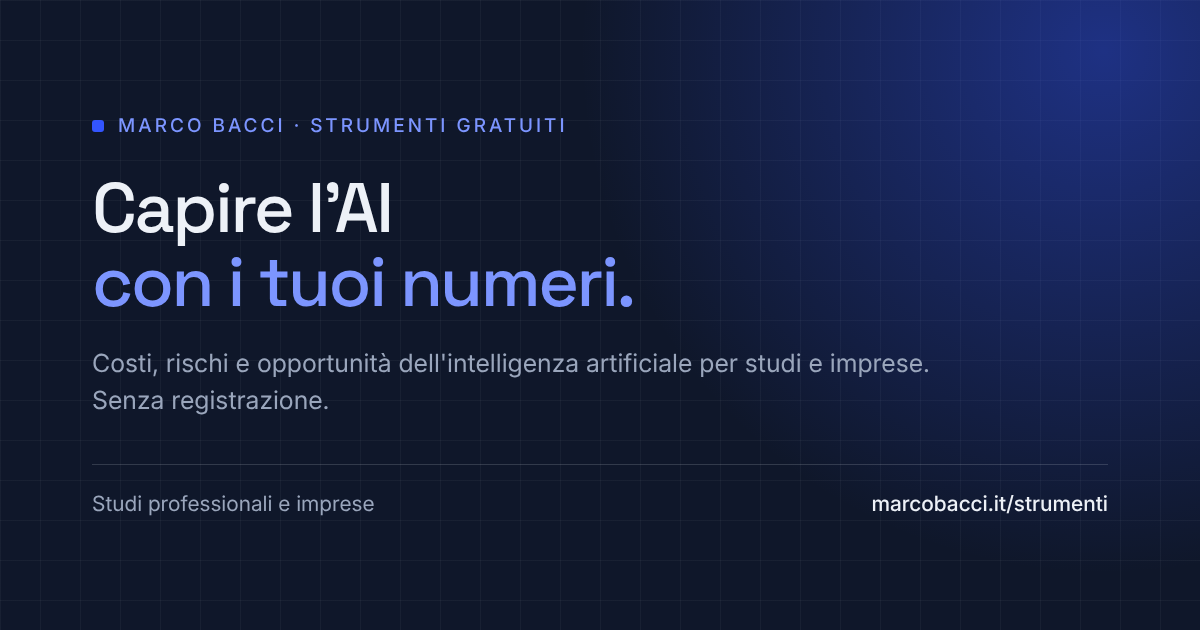
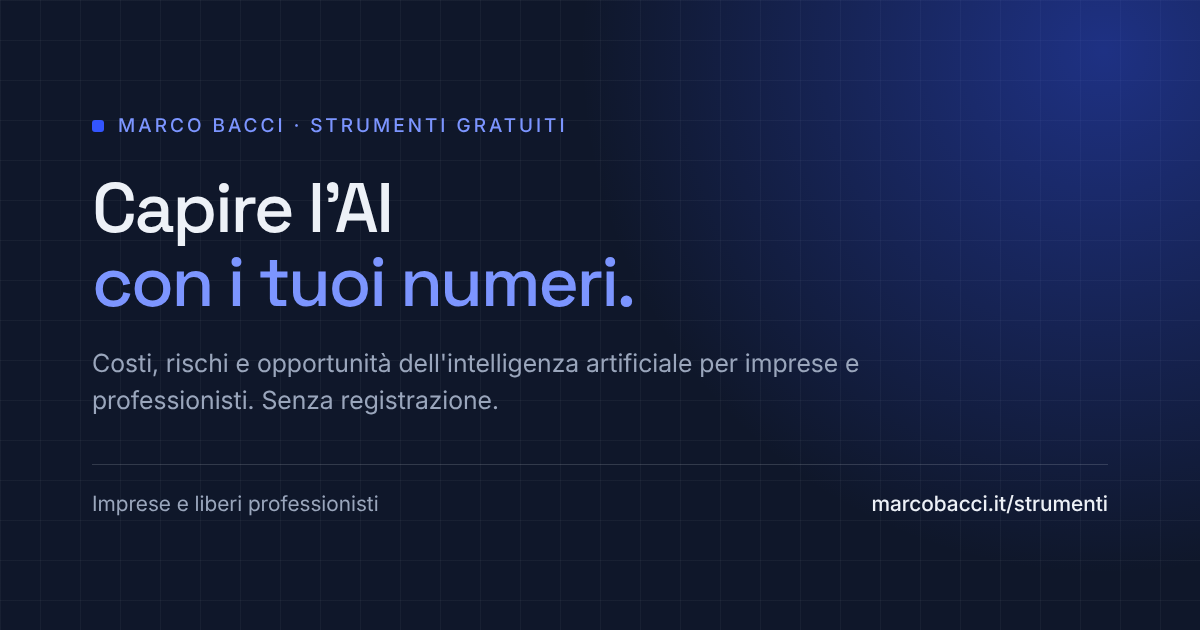
Pagina Esempi per mestiere e target 'imprese e liberi professionisti'
- nuova pagina /esempi/ (dati in _data/esempi.yml): hotel, edili e impiantisti, officine e artigiani, studi tecnici
- blocco 'Esempi per il tuo lavoro' in home sotto i servizi, link anche da Servizi
- target aggiornato in home, servizi, chi sono, blog, strumenti, newsletter, descrizioni SEO
- anteprime dei link rigenerate

Claude-Session: https://claude.ai/code/session_01NUs1ymJygNkjF9CL93kb1N

Changed region(s): [[0.0617, 0.6032, 0.4008, 0.6635], [0.6167, 0.5429, 0.7708, 0.6032], [0.0617, 0.7841, 0.3083, 0.8143]]

diff --git a/servizi.html b/servizi.html
@@ -3,7 +3,7 @@ layout: default
 title: "Servizi"
 nav: servizi
 permalink: /servizi/
-description: "Formazione, affiancamento operativo e progetti AI su misura per studi professionali e imprese. Parto dal lavoro reale e costruisco l'intervento intorno alle tue esigenze."
+description: "Formazione, affiancamento operativo e progetti AI su misura per imprese e liberi professionisti. Parto dal lavoro reale e costruisco l'intervento intorno alle tue esigenze."
 ---
 
 <section class="hero">
@@ -23,22 +23,24 @@ description: "Formazione, affiancamento operativo e progetti AI su misura per st
   <div class="wrap split">
     <div>
       <p class="eyebrow">Per chi lavoro</p>
-      <h2>Studi e imprese, dove il tempo non avanza</h2>
+      <h2>Imprese e professionisti, dove il tempo non avanza</h2>
     </div>
 
     <div>
       <p class="lead" style="max-width:56ch;margin-bottom:2rem">
-        Commercialisti, avvocati, consulenti del lavoro, studi tecnici e imprese
-        di ogni settore. Posti dove non c'è un ufficio informatico né un ufficio formazione,
+        Hotel e strutture ricettive, imprese edili e impiantisti, officine, artigiani
+        e studi tecnici. Posti dove non c'è un ufficio informatico né un ufficio formazione,
         e ogni ora sottratta alle pratiche deve tradursi in un valore concreto.
       </p>
 
       <ul class="bars">
-        <li>L'AI è già nel tuo studio. Trasformala in un vantaggio concreto</li>
+        <li>L'AI è già nel tuo lavoro. Trasformala in un vantaggio concreto</li>
         <li class="acceso">Nessuno sa dirti con certezza cosa si può caricare e cosa no</li>
         <li>I corsi e gli strumenti che hai visto parlavano di tutto, tranne che del tuo lavoro</li>
         <li>Ti serve un riferimento anche dopo, senza restare legato a un contratto</li>
       </ul>
+
+      <p style="margin-top:2rem"><a class="link-arrow" href="{{ '/esempi/' | relative_url }}">Vedi gli esempi per il tuo mestiere</a></p>
     </div>
   </div>
 </section>
@@ -60,7 +62,7 @@ description: "Formazione, affiancamento operativo e progetti AI su misura per st
 
       <h3 style="font-size:1.1rem;margin-bottom:0.9rem">Per chi</h3>
       <ul class="ticks" style="margin-bottom:2rem">
-        <li>Studi professionali e imprese che vogliono introdurre l'AI nel lavoro quotidiano</li>
+        <li>Imprese e liberi professionisti che vogliono introdurre l'AI nel lavoro quotidiano</li>
         <li>Team che hanno già iniziato a usarla ma senza un metodo condiviso</li>
         <li>Associazioni, reti di imprese, convegni e giornate di settore</li>
       </ul>

diff --git a/esempi.html b/esempi.html
@@ -1,0 +1,67 @@
+---
+layout: default
+title: "Esempi per il tuo lavoro"
+nav: esempi
+permalink: /esempi/
+description: "Esempi concreti di cosa può fare l'intelligenza artificiale per hotel, imprese edili e impiantisti, officine e artigiani, studi tecnici. Mestiere per mestiere."
+---
+
+<section class="hero">
+  <div class="wrap hero-inner">
+    <p class="eyebrow" style="color:var(--brass)">Esempi</p>
+    <h1>Cosa posso fare per te,<br><em>mestiere per mestiere</em></h1>
+    <p class="lead">
+      Qualche esempio concreto di come l'AI entra nel lavoro di tutti i giorni.
+      Ognuno parte da una cosa che fai già e la rende più veloce.
+      Prima che qualcosa arrivi a un cliente lo controlla sempre una persona.
+    </p>
+
+    <nav class="esempi-salti" aria-label="Vai al tuo mestiere">
+      {% for m in site.data.esempi %}
+      <a href="#{{ m.id }}">{{ m.nome }}</a>
+      {% endfor %}
+    </nav>
+  </div>
+</section>
+
+{% for m in site.data.esempi %}
+<section class="section{% cycle ' section-warm', '' %} esempi-mestiere" id="{{ m.id }}">
+  <div class="wrap split">
+    <div>
+      <p class="eyebrow">{{ m.chi }}</p>
+      <h2>{{ m.nome }}</h2>
+    </div>
+    <div>
+      <ul class="ticks esempi-lista">
+        {% for e in m.esempi %}
+        <li>{{ e }}</li>
+        {% endfor %}
+      </ul>
+    </div>
+  </div>
+</section>
+{% endfor %}
+
+<section class="section-dark section-tight">
+  <div class="wrap wrap-narrow">
+    <p class="eyebrow">E poi?</p>
+    <h2 style="color:var(--ivory)">Ogni esempio può diventare un corso, un assistente o un'automazione</h2>
+    <p class="lead" style="margin-bottom:1.5rem">
+      Posso insegnare al tuo team a farlo da solo, preparare un assistente AI
+      già impostato sul tuo lavoro oppure costruire un'automazione che lavora al posto tuo.
+      Accessi, configurazioni e istruzioni restano a te.
+    </p>
+    <a class="link-arrow" href="{{ '/servizi/' | relative_url }}">Vedi i servizi</a>
+  </div>
+</section>
+
+<section class="section section-warm">
+  <div class="wrap wrap-narrow" style="text-align:center">
+    <h2>Il tuo mestiere non c'è?</h2>
+    <p class="lead" style="margin:0 auto 2rem">
+      Questi sono solo esempi. In una call gratuita di 20 minuti mi racconti come lavori
+      e ti dico dove vedo un uso concreto dell'AI, e dove invece non la userei.
+    </p>
+    <a class="btn btn-primary" href="{{ '/prenota/' | relative_url }}">Scegli un orario</a>
+  </div>
+</section>

diff --git a/index.html b/index.html
@@ -1,7 +1,7 @@
 ---
 layout: default
 nav: home
-description: "Formazione, consulenza e affiancamento sull'intelligenza artificiale per studi professionali e imprese, costruiti sul lavoro che fai ogni giorno. Roma e tutta Italia."
+description: "Formazione, consulenza e affiancamento sull'intelligenza artificiale per imprese e liberi professionisti, costruiti sul lavoro che fai ogni giorno. Roma e tutta Italia."
 ---
 
 <!-- ============ HERO ============ -->
@@ -10,8 +10,8 @@ description: "Formazione, consulenza e affiancamento sull'intelligenza artificia
     <h1>Porto l'intelligenza artificiale<br>nel tuo lavoro<br><em>di tutti i giorni.</em></h1>
 
     <p class="lead">
-      Formazione, consulenza e affiancamento per studi professionali e imprese:
-      commercialisti, avvocati, consulenti del lavoro, studi tecnici e aziende di ogni settore.
+      Formazione, consulenza e affiancamento per imprese e liberi professionisti:
+      hotel e strutture ricettive, imprese edili e impiantisti, officine, artigiani e studi tecnici.
       Parto da come lavori oggi, individuo dove l'AI può essere utile
       e ti aiuto a portarla nel lavoro di tutti i giorni.
       Senza corsi generici e senza legarti a me.
@@ -36,7 +36,7 @@ description: "Formazione, consulenza e affiancamento sull'intelligenza artificia
 
     <p class="hero-meta">
       <span>Formazione · Affiancamento · Progetti AI</span>
-      <span>Studi professionali e imprese</span>
+      <span>Imprese e liberi professionisti</span>
       <span>Roma e tutta Italia</span>
     </p>
   </div>
@@ -74,6 +74,26 @@ description: "Formazione, consulenza e affiancamento sull'intelligenza artificia
       </a>
 
     </div>
+
+    <!-- Esempi per mestiere (dati in _data/esempi.yml) -->
+    {% if site.data.esempi and site.data.esempi.size > 0 %}
+    <div class="home-esempi">
+      <div class="home-esempi-head">
+        <h3>Esempi per il tuo lavoro</h3>
+        <p>Cosa vuol dire in pratica, mestiere per mestiere.</p>
+      </div>
+      <div class="grid">
+        {% for m in site.data.esempi %}
+        <a class="card" href="{{ '/esempi/' | relative_url }}#{{ m.id }}">
+          <h4>{{ m.nome }}</h4>
+          <p class="card-chi">{{ m.chi }}</p>
+          <p class="card-esempio">{{ m.esempi.first }}</p>
+          <span class="link-arrow">Vedi gli esempi</span>
+        </a>
+        {% endfor %}
+      </div>
+    </div>
+    {% endif %}
   </div>
 </section>
 

diff --git a/assets/css/style.css b/assets/css/style.css
@@ -2203,3 +2203,52 @@ a.cliente-logo:hover { background: var(--accent-soft); }
 }
 
 .home-strumenti-more { margin: 1.5rem 0 0; }
+
+/* --------------------------------------------------------------------------
+   32. Esempi per mestiere (pagina /esempi/ e blocco in home, dati in _data/esempi.yml)
+   -------------------------------------------------------------------------- */
+
+.esempi-salti {
+  display: flex;
+  flex-wrap: wrap;
+  gap: 0.6rem;
+  margin-top: 2rem;
+}
+
+.esempi-salti a {
+  display: inline-block;
+  padding: 0.5rem 0.95rem;
+  border: 1px solid var(--line);
+  border-radius: 999px;
+  background: var(--surface);
+  color: var(--text);
+  font-size: 0.92rem;
+  text-decoration: none;
+  transition: border-color var(--dur) var(--ease), color var(--dur) var(--ease);
+}
+
+.esempi-salti a:hover { border-color: var(--accent); color: var(--accent); }
+
+.esempi-mestiere { scroll-margin-top: 5rem; }
+
+.esempi-lista li { font-size: 1.05rem; }
+
+/* Home: quattro schede mestiere sotto i servizi */
+.home-esempi { margin-top: clamp(3rem, 6vw, 4.5rem); }
+.home-esempi-head { margin-bottom: clamp(1.5rem, 3vw, 2.25rem); }
+.home-esempi-head h3 { font-size: clamp(1.3rem, 2.2vw, 1.6rem); margin-bottom: 0.4rem; }
+.home-esempi-head p { color: var(--text-2); max-width: 56ch; margin: 0; }
+
+.home-esempi .grid { grid-template-columns: minmax(0, 1fr); }
+
+@media (min-width: 720px) {
+  .home-esempi .grid { grid-template-columns: repeat(2, minmax(0, 1fr)); }
+}
+
+@media (min-width: 1100px) {
+  .home-esempi .grid { grid-template-columns: repeat(4, minmax(0, 1fr)); }
+}
+
+.home-esempi .card h4 { font-size: 1.08rem; margin: 0; }
+.home-esempi .card-chi { font-size: 0.85rem; color: var(--text-3); margin: 0; }
+.home-esempi .card-esempio { font-size: 0.95rem; color: var(--text-2); margin: 0; }

diff --git a/chi-sono.html b/chi-sono.html
@@ -3,7 +3,7 @@ layout: default
 title: "Chi sono"
 nav: chi-sono
 permalink: /chi-sono/
-description: "Marco Bacci, dottore in Ingegneria gestionale. Formazione, consulenza e affiancamento sull'intelligenza artificiale per studi professionali e imprese."
+description: "Marco Bacci, dottore in Ingegneria gestionale. Formazione, consulenza e affiancamento sull'intelligenza artificiale per imprese e liberi professionisti."
 ---
 
 <section class="hero">
@@ -11,9 +11,9 @@ description: "Marco Bacci, dottore in Ingegneria gestionale. Formazione, consule
     <div class="bio-top">
       <div>
         <p class="eyebrow" style="color:var(--brass)">Marco Bacci</p>
-        <h1>Aiuto imprese e studi a usare l'AI <em>davvero</em></h1>
+        <h1>Aiuto imprese e professionisti a usare l'AI <em>davvero</em></h1>
         <p class="lead">
-          Dott. in Ingegneria gestionale · Formazione, consulenza e affiancamento AI per studi professionali e imprese
+          Dott. in Ingegneria gestionale · Formazione, consulenza e affiancamento AI per imprese e liberi professionisti
         </p>
       </div>
       <img class="bio-foto" src="{{ '/assets/img/marco-bacci.jpg' | relative_url }}"
@@ -78,7 +78,7 @@ description: "Marco Bacci, dottore in Ingegneria gestionale. Formazione, consule
     <h2>Dalle grandi aziende al lavoro di tutti i giorni</h2>
     <p>
       Una grande azienda ha persone e reparti dedicati a scegliere gli strumenti,
-      integrarli e formare chi li userà. In molte imprese e studi professionali,
+      integrarli e formare chi li userà. In molte imprese e attività di liberi professionisti,
       invece, queste decisioni ricadono su chi ha già altro da fare.
     </p>
     <p>

diff --git a/strumenti.html b/strumenti.html
@@ -3,7 +3,7 @@ layout: default
 title: "Strumenti gratuiti"
 nav: strumenti
 permalink: /strumenti/
-description: "Strumenti gratuiti per capire costi, rischi e opportunità dell'intelligenza artificiale in studi professionali e imprese. Senza registrazione."
+description: "Strumenti gratuiti per capire costi, rischi e opportunità dell'intelligenza artificiale per imprese e liberi professionisti. Senza registrazione."
 image: /assets/img/og-strumenti.png
 ---
 {%- assign strumenti_online = site.data.strumenti | where: "stato", "online" -%}
@@ -14,7 +14,7 @@ image: /assets/img/og-strumenti.png
     <h1>Capire l'AI<br><em>con i tuoi numeri</em></h1>
     <p class="lead">
       Piccoli strumenti gratuiti per farti un'idea di costi, rischi e opportunità
-      dell'intelligenza artificiale nel tuo studio o nella tua impresa.
+      dell'intelligenza artificiale nella tua impresa o nella tua attività.
       Li apri e li usi subito: nessuna registrazione.
     </p>
   </div>

diff --git a/blog.html b/blog.html
@@ -3,7 +3,7 @@ layout: default
 title: "Blog"
 nav: blog
 permalink: /blog/
-description: "Articoli pratici sull'intelligenza artificiale per studi professionali e imprese: cosa funziona, cosa no e cosa chiedono le regole."
+description: "Articoli pratici sull'intelligenza artificiale per imprese e liberi professionisti: cosa funziona, cosa no e cosa chiedono le regole."
 ---
 
 <section class="hero">
@@ -11,7 +11,7 @@ description: "Articoli pratici sull'intelligenza artificiale per studi professio
     <p class="eyebrow" style="color:var(--brass)">Blog</p>
     <h1>Intelligenza artificiale,<br>spiegata <em>sul lavoro vero</em></h1>
     <p class="lead">
-      Articoli brevi e pratici per chi lavora in uno studio o in un'impresa:
+      Articoli brevi e pratici per chi lavora in un'impresa o come libero professionista:
       cosa si può fare con l'AI, cosa conviene lasciar perdere e cosa chiedono le regole.
     </p>
   </div>

diff --git a/assets/img/og-strumenti.source.html b/assets/img/og-strumenti.source.html
@@ -27,6 +27,6 @@
 </style></head><body>
   <div class="eyebrow">Marco Bacci · Strumenti gratuiti</div>
   <h1>Capire l'AI<br><em>con i tuoi numeri.</em></h1>
-  <p>Costi, rischi e opportunità dell'intelligenza artificiale per studi e imprese. Senza registrazione.</p>
-  <div class="foot"><span>Studi professionali e imprese</span><b>marcobacci.it/strumenti</b></div>
+  <p>Costi, rischi e opportunità dell'intelligenza artificiale per imprese e professionisti. Senza registrazione.</p>
+  <div class="foot"><span>Imprese e liberi professionisti</span><b>marcobacci.it/strumenti</b></div>
 </body></html>

diff --git a/iscrizione-confermata.html b/iscrizione-confermata.html
@@ -12,7 +12,7 @@ sitemap: false
     <h1>Iscrizione<br><em>confermata</em></h1>
     <p class="lead">
       Grazie. Da lunedì ricevi le novità AI della settimana: cosa è cambiato su Claude,
-      ChatGPT e Gemini e cosa significa per il lavoro di uno studio o di un'impresa.
+      ChatGPT e Gemini e cosa significa per il lavoro di un'impresa o di un professionista.
     </p>
     <p class="lead">
       Se hai una domanda su qualcosa che leggi, rispondi pure all'email: arriva a me.

diff --git a/assets/img/og-image.source.html b/assets/img/og-image.source.html
@@ -26,5 +26,5 @@
 </style></head><body>
   <div class="eyebrow">Marco Bacci · Formazione e consulenza AI</div>
   <h1>Porto l'intelligenza artificiale<br>nel tuo lavoro<br><em>di tutti i giorni.</em></h1>
-  <div class="foot"><span>Studi professionali e imprese · Roma e tutta Italia</span><b>marcobacci.it</b></div>
+  <div class="foot"><span>Imprese e liberi professionisti · Roma e tutta Italia</span><b>marcobacci.it</b></div>
 </body></html>

diff --git a/_includes/newsletter-box.html b/_includes/newsletter-box.html
@@ -10,7 +10,7 @@
         <h2>Le novità AI della settimana, in cinque minuti</h2>
         <p>
           Ogni lunedì ti scrivo cosa è cambiato su Claude, ChatGPT e Gemini
-          e cosa significa per il lavoro di uno studio o di un'impresa.
+          e cosa significa per il lavoro di un'impresa o di un professionista.
           Solo novità verificate, con il link alla fonte.
         </p>
       </div>
